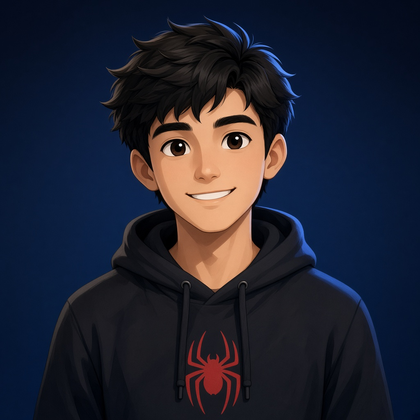
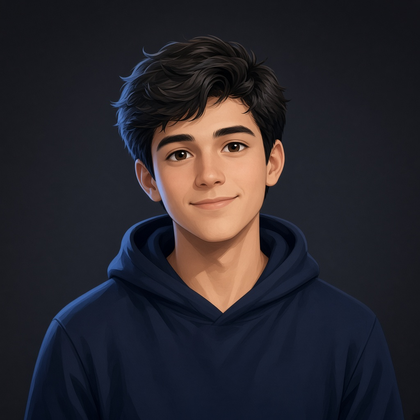
refactor: drop Spidey theme for clean navy aesthetic

Changed region(s): [[0.0, 0.031, 0.9286, 1.0], [0.1548, 0.7738, 0.2786, 1.0], [0.7429, 0.8048, 0.8357, 1.0]]

diff --git a/README.md b/README.md
@@ -2,15 +2,15 @@
   <img src="./assets/header.png" width="100%" alt="Welcome to Fuzlik's Github" />
   <br/><br/>
   <a href="https://github.com/fuzlik">
-    <img src="https://img.shields.io/badge/GITHUB-161B22?style=for-the-badge&logo=github&logoColor=white" alt="GitHub" />
+    <img src="https://img.shields.io/badge/GITHUB-0D1117?style=for-the-badge&logo=github&logoColor=white" alt="GitHub" />
   </a>
   &nbsp;
   <a href="https://fuzlik.github.io/alabuga-it-landing/">
-    <img src="https://img.shields.io/badge/LANDING-E11D2E?style=for-the-badge&logo=googlechrome&logoColor=white" alt="Landing" />
+    <img src="https://img.shields.io/badge/LANDING-2563EB?style=for-the-badge&logo=googlechrome&logoColor=white" alt="Landing" />
   </a>
   &nbsp;
   <a href="https://github.com/fuzlik/openclaw">
-    <img src="https://img.shields.io/badge/OPENCLAW-1E4D8C?style=for-the-badge&logo=telegram&logoColor=white" alt="OpenClaw" />
+    <img src="https://img.shields.io/badge/OPENCLAW-1E3A5F?style=for-the-badge&logo=telegram&logoColor=white" alt="OpenClaw" />
   </a>
 </div>
 
@@ -39,12 +39,12 @@
 ### <img src="./assets/icon.png" width="28" height="28" alt="" /> Statistics
 
 <div align="center">
-  <img src="https://github-readme-stats.vercel.app/api?username=fuzlik&show_icons=true&theme=dark&hide_border=true&bg_color=0B1220&title_color=E11D2E&icon_color=3B82F6&text_color=E6EDF3" height="160" alt="stats" />
-  <img src="https://github-readme-stats.vercel.app/api/top-langs/?username=fuzlik&layout=compact&theme=dark&hide_border=true&bg_color=0B1220&title_color=E11D2E&text_color=E6EDF3" height="160" alt="langs" />
+  <img src="https://github-readme-stats.vercel.app/api?username=fuzlik&show_icons=true&theme=dark&hide_border=true&bg_color=0B1220&title_color=60A5FA&icon_color=93C5FD&text_color=E6EDF3" height="160" alt="stats" />
+  <img src="https://github-readme-stats.vercel.app/api/top-langs/?username=fuzlik&layout=compact&theme=dark&hide_border=true&bg_color=0B1220&title_color=60A5FA&text_color=E6EDF3" height="160" alt="langs" />
   <br/>
-  <img src="https://streak-stats.demolab.com?user=fuzlik&theme=dark&background=0B1220&ring=E11D2E&fire=E11D2E&currStreakLabel=3B82F6&hide_border=true" alt="streak" />
+  <img src="https://streak-stats.demolab.com?user=fuzlik&theme=dark&background=0B1220&ring=60A5FA&fire=3B82F6&currStreakLabel=93C5FD&hide_border=true" alt="streak" />
   <br/><br/>
-  <img src="https://ghchart.rshah.org/e11d2e/fuzlik" width="100%" alt="Contribution chart" />
+  <img src="https://ghchart.rshah.org/3B82F6/fuzlik" width="100%" alt="Contribution chart" />
 </div>
 
 ---
@@ -81,11 +81,11 @@ Building fast frontend products and personal automation.
 - **[alabuga-it-landing](https://github.com/fuzlik/alabuga-it-landing)** — Vite + React + TS landing with Express & Bitrix24  
 - **[openclaw](https://github.com/fuzlik/openclaw)** — home gateway config, Telegram, OpenRouter  
 
-> *"With great code comes great responsibility."*
+> *"Keep it simple. Ship it clean."*
 
 </td>
 <td width="28%" align="center" valign="middle">
-  <img src="./assets/mascot.png" width="140" alt="" />
+  <img src="./assets/deco.png" width="140" alt="" />
 </td>
 </tr>
 </table>
